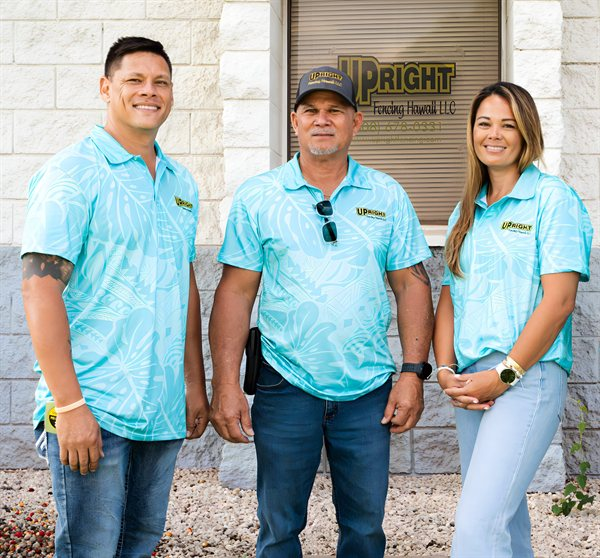
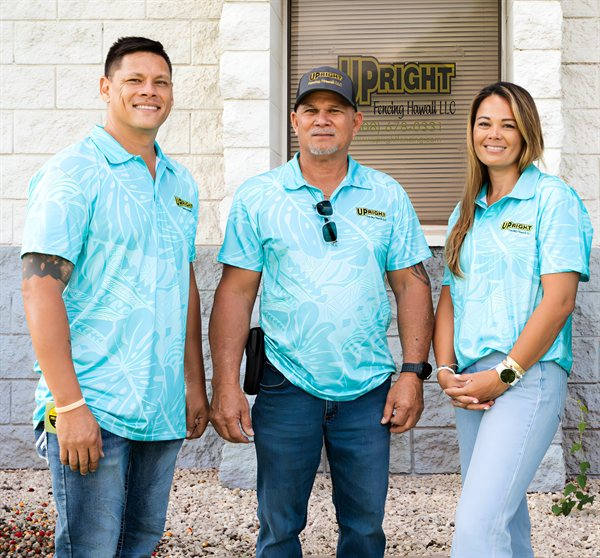
Update home page team photo to latest version

Changed region(s): [[0.57, 0.5484, 0.66, 0.7616], [0.42, 0.5179, 0.54, 0.7007], [0.42, 0.7007, 0.45, 0.7312]]

diff --git a/index.html b/index.html
@@ -342,7 +342,7 @@
       <div class="container">
         <div class="split-section">
           <div class="split-image reveal">
-            <img src="images/600_upright-fencing-hawaii-team-kapolei-office.jpg" alt="The Upright Fencing Hawaii team in matching company shirts in front of our Kapolei office" loading="lazy" width="600" height="558">
+            <img src="images/600_upright-fencing-hawaii-team-kapolei-office.jpg?v=2" alt="The Upright Fencing Hawaii team in matching company shirts in front of our Kapolei office" loading="lazy" width="600" height="558">
           </div>
           <div class="split-text reveal">
             <p class="section-label">About Us</p>
